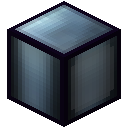
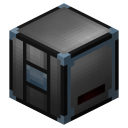
Updated cache page

diff --git a/docs/cache/index.md b/docs/cache/index.md
@@ -1,0 +1,108 @@
+---
+title: Cache
+nav: thermal-expansion
+image:
+  - alt: Cache (Basic)
+    file: thermal-expansion/cache-basic.png
+  - alt: Cache (Hardened)
+    file: thermal-expansion/cache-hardened.png
+  - alt: Cache (Reinforced)
+    file: thermal-expansion/cache-reinforced.png
+  - alt: Cache (Signalum)
+    file: thermal-expansion/cache-signalum.png
+  - alt: Cache (Resonant)
+    file: thermal-expansion/cache-resonant.png
+  - alt: Cache (Creative)
+    file: thermal-expansion/cache-creative.png
+redirect_from:
+  - /docs/thermal-expansion/storage/caches/
+  - /thermal-expansion/items/cache-2/
+  - /docs/thermal-expansion/storage/cache/
+recipes:
+  crafting:
+    - cache-basic
+---
+
+A **cache** is a block that stores a large amount of a single item.
+
+
+Obtaining
+---------
+
+A placed cache can be instantly picked up by dismantling it with a [crescent
+hammer](/docs/crescent-hammer/). Its stored items and configuration are
+preserved in the item.
+
+### Crafting
+{% include recipe-table.html type='crafting' recipes=page.recipes.crafting no-result=true %}
+
+### Upgrading
+A cache is initially at the lowest [tier](#tiers) (basic). It can be upgraded to
+higher tiers using [upgrade kits](/docs/upgrade-kits/) and [conversion
+kits](/docs/conversion-kits/).
+
+
+Usage
+-----
+
+### Placement
+When placed, a cache faces the player. It can face any of the four cardinal
+directions, and can be rotated using a [crescent hammer](/docs/crescent-hammer/)
+or similar.
+
+The front of a cache displays the item it stores and roughly how full it is.
+
+### Manual usage
+Items can be stored in a cache by using them on the cache. Up to a full stack of
+items is stored at a time. When this is done twice in rapid succession, all
+items of the same type in the player's inventory are stored in the cache.
+
+Items can be taken out of a cache by punching it. A single item is taken out at
+a time. Full stacks can be taken out by punching the cache while sneaking.
+
+When a cache is used while sneaking, it is locked to only accept the currently
+stored item, even when it is empty. It can be unlocked by using it while
+sneaking again.
+
+The exact amount of items that a cache stores can be read using a
+[multimeter](/docs/multimeter/).
+
+### Input and output
+Items can enter and exit a cache through any of its sides.
+
+### Enchantments
+A cache can be enchanted with [Holding](/docs/holding/) to increase its
+capacity.
+
+| Holding level | Capacity multiplier |
+|---
+| I | 1.5x |
+| II | 2x |
+| III | 2.5x |
+| IV | 3x |
+{:.uk-table .uk-table-striped .uk-table-condensed .uk-text-small .cofh-table-compress}
+
+### Redstone comparators
+When placed next to a cache, a [redstone
+comparator](https://minecraft.gamepedia.com/Redstone_Comparator) emits a signal
+strength of between 0 and 15, depending on how full the cache is.
+
+
+Tiers
+-----
+
+Caches come in six [tiers](/docs/tiers/).
+
+{::options parse_block_html="true" /}
+<div class="uk-overflow-container">
+| Tier | Capacity | Note |
+|---
+| Basic | 20,000 |
+| Hardened | 80,000 |
+| Reinforced | 180,000 |
+| Signalum | 320,000 |
+| Resonant | 500,000 |
+| Creative | N/A | Provides an unlimited amount of the item it stores. |
+{:.uk-table .uk-table-striped .uk-table-condensed .uk-text-small .cofh-table-semi-compress}
+</div>
+{::options parse_block_html="false" /}

diff --git a/docs/portable-tank/index.md b/docs/portable-tank/index.md
@@ -46,16 +46,17 @@ upgraded to higher tiers using [upgrade kits](/docs/upgrade-kits/) and
 Usage
 -----
 
+### Manual usage
+Fluids can be put in and taken out of a portable tank using
+[buckets](https://minecraft.gamepedia.com/Buckets) or other items that can hold
+fluids.
+
 ### Input and output
 Fluids can enter and exit a portable tank through its sides.
 
 A portable tank can be configured to automatically emit fluids through the
 bottom using a [crescent hammer](/docs/crescent-hammer/) or similar. When placed
 on top of another portable tank, it will automatically be configured to do this.
-
-Fluids can be manually put in and taken out of a portable tank using
-[buckets](https://minecraft.gamepedia.com/Buckets) or other items that can hold
-fluids.
 
 ### Item form
 A portable tank in item form can be filled and emptied using a [fluid
